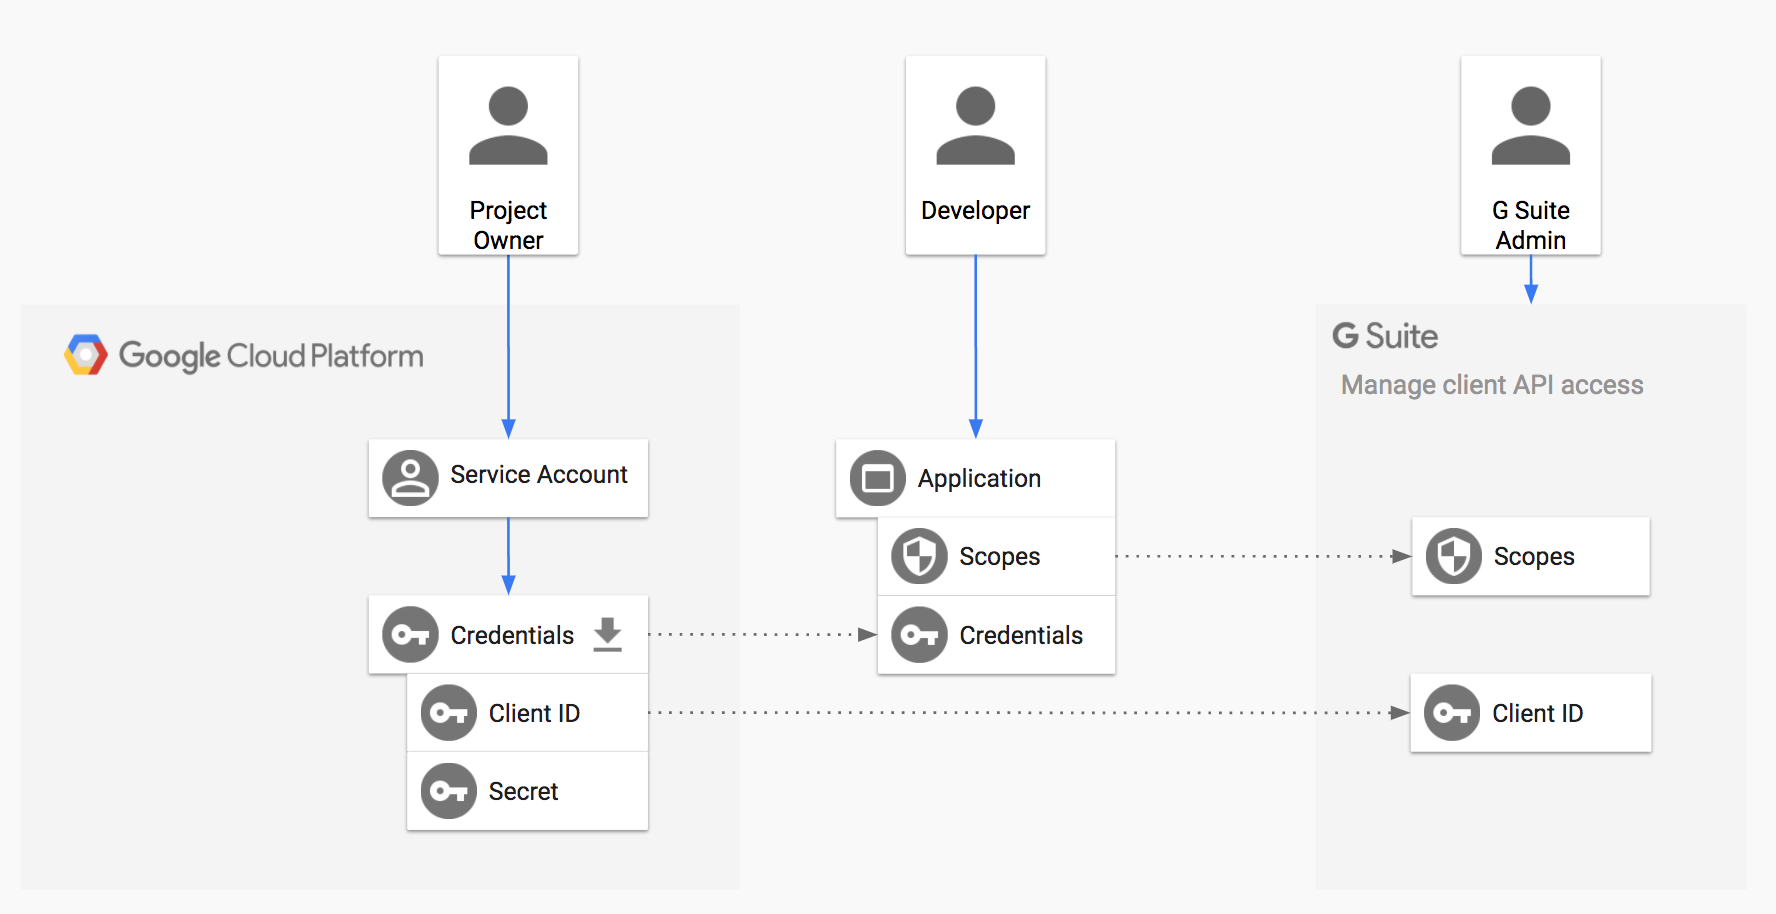
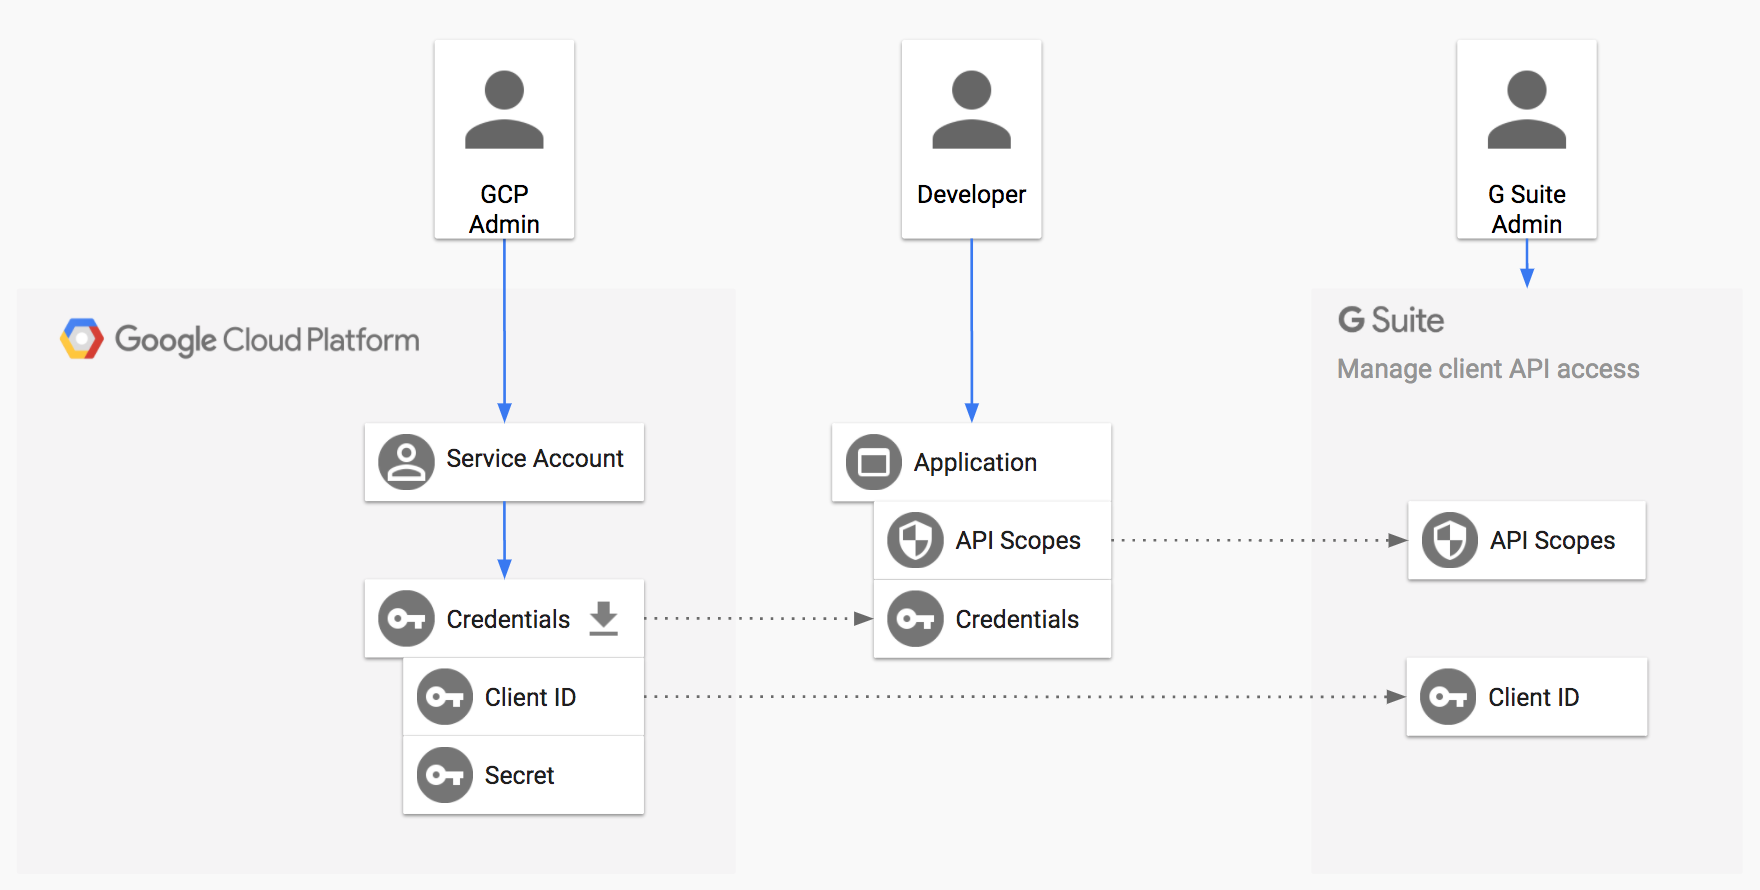
Initial draft

diff --git a/domain-wide-delegation/README.md b/domain-wide-delegation/README.md
@@ -1,9 +1,61 @@
 # What setting up domain wide delegation might look like at an enterprise
 
-At the enterprise level, there will be multiple teams or individuals responsible for different aspects of GCP and G Suite administration. Which means, there's a few moving parts when it comes to the configuration and setup of an application that requires domain wide delegation.
+At the enterprise level, there will be multiple teams or individuals responsible for different aspects of GCP and G Suite administration. Which means, there's a few moving parts when it comes to the setup of domain wide delegation for an application that needs it.
 
-Here's an example of what it could look like...
+Here's what this might look like...
 
 ![complete]
 
+## The Setup
+
+For domain wide delegation (DwD) setup, we need to have 3 things:
+
+1. A service account with DwD enabled
+2. The json keyfile (client ID and secret) associated with the service account
+3. And a list of API scopes
+
+There'll be distinct roles responsible for providing and consuming each of these things that want to coordinate with each other. 
+
+Let's say there are 3 roles: 
+
+1. A developer from the development team
+2. The GCP admin* from the operations team
+3. And the G Suite domain admininstrator from some other part of IT
+
+*GCP Admin is a generalized term I'm using to refer to someone who has the permissions to create service accounts, whether it be a GCP Project Owner or a Service Account Admin.
+
+![roles]
+
+## The Developer
+
+In our scenario, the development team wants to build an application that accesses user data on the domain. They determine the APIs and list of API scopes to be used. What's missing is the json keyfile — or credentials — needed for authentication between the application and G Suite domain. 
+
+![app-scopes]
+
+## The GCP Admin
+
+In order to get this, the development team asks the GCP Admin for a service account with DwD enabled. The GCP Admin chooses a service account and makes the json keyfile available to the developers.
+
+![service-account-request]
+
+## The G Suite Admin
+
+The last step is to register the application with the G Suite domain. To do this, the G Suite Admin needs to know the client ID of the service account and API scopes the application will use. They'll add these values to the `Manage client API access` page of the G Suite console.
+
+![gsuite-admin]
+
+## Summary
+
+Roles and responsibilities between organizations will differ, so it's important to understand the org structure, who is reponsible for what, how and where to make requests and get approvals.
+
+### Resources
+* [Using OAuth 2.0 for Server to Server Applications](https://developers.google.com/identity/protocols/OAuth2ServiceAccount)
+* [Perform G Suite Domain-Wide Delegation of Authority](https://developers.google.com/admin-sdk/directory/v1/guides/delegation)
+* [Perform Google Apps domain-wide delegation of authority](https://developers.google.com/+/domains/authentication/delegation)
+* [OAuth: Managing API client access](https://support.google.com/a/answer/162106?hl=en)
+
+[roles]: img/roles.png
+[app-scopes]: img/app_scopes.png
+[service-account-request]: img/service_account_request.png
+[gsuite-admin]: img/gsuite_admin.png
 [complete]: img/complete.png
